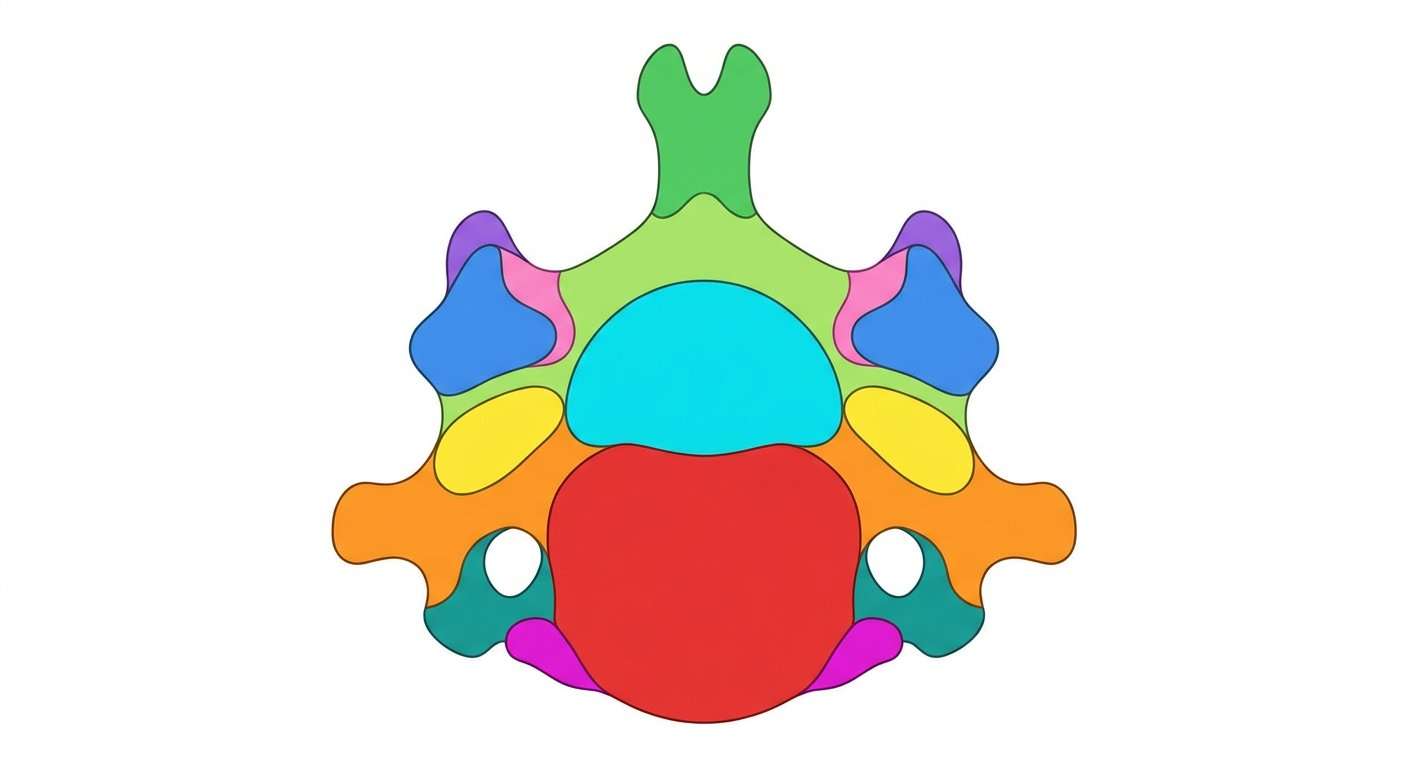
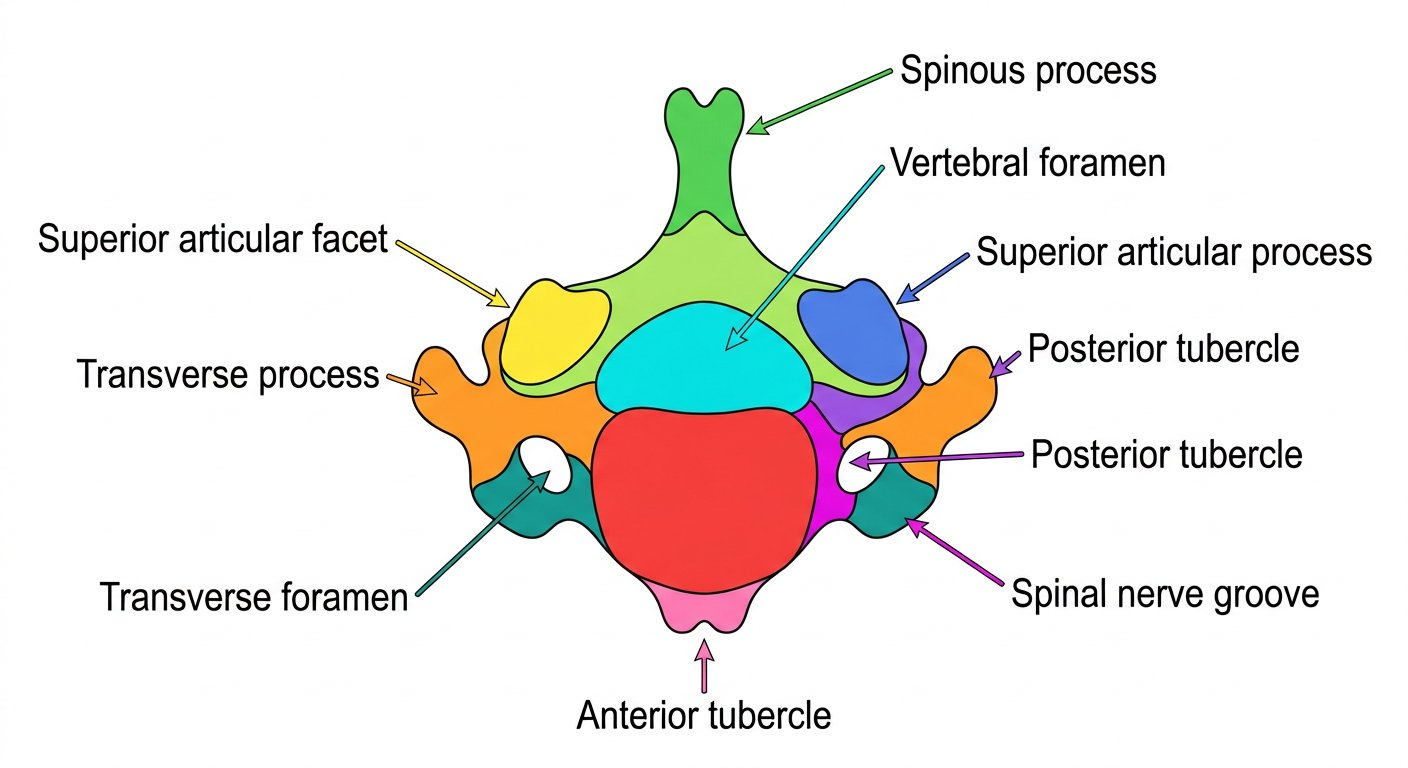
Strelkali savollar: bo'yin umurtqasi (l4, 8/11 qism) highlight'lar + l4/l5 diagrammalar strelkali; qolgan qismlar keyingi turda

Changed region(s): [[0.0312, 0.0625, 0.9688, 0.9688], [0.5938, 0.1875, 0.8438, 0.2812], [0.5938, 0.0625, 0.8125, 0.125]]

diff --git a/corpus/src/data/colorDiagrams.ts b/corpus/src/data/colorDiagrams.ts
@@ -62,6 +62,16 @@ export const COLOR_HIGHLIGHTS: Record<string, Record<string, string>> = {
     "4": "/img/color/l6_4.jpg", // Processus spinosus
     "5": "/img/color/l6_5.jpg", // Corpus vertebrae
   },
+  l4: {
+    "1": "/img/color/l4_1.jpg", // Corpus vertebrae
+    "2": "/img/color/l4_2.jpg", // Processus transversus
+    "3": "/img/color/l4_3.jpg", // Facies articularis superior
+    "4": "/img/color/l4_4.jpg", // Arcus vertebrae
+    "5": "/img/color/l4_5.jpg", // Processus spinosus
+    "6": "/img/color/l4_6.jpg", // Foramen vertebrale
+    "7": "/img/color/l4_7.jpg", // Processus articularis superior
+    "8": "/img/color/l4_8.jpg", // Tuberculum posterius
+  },
 };
 
 /** Legend raqami → rang (palitradan indeks bo'yicha). */
